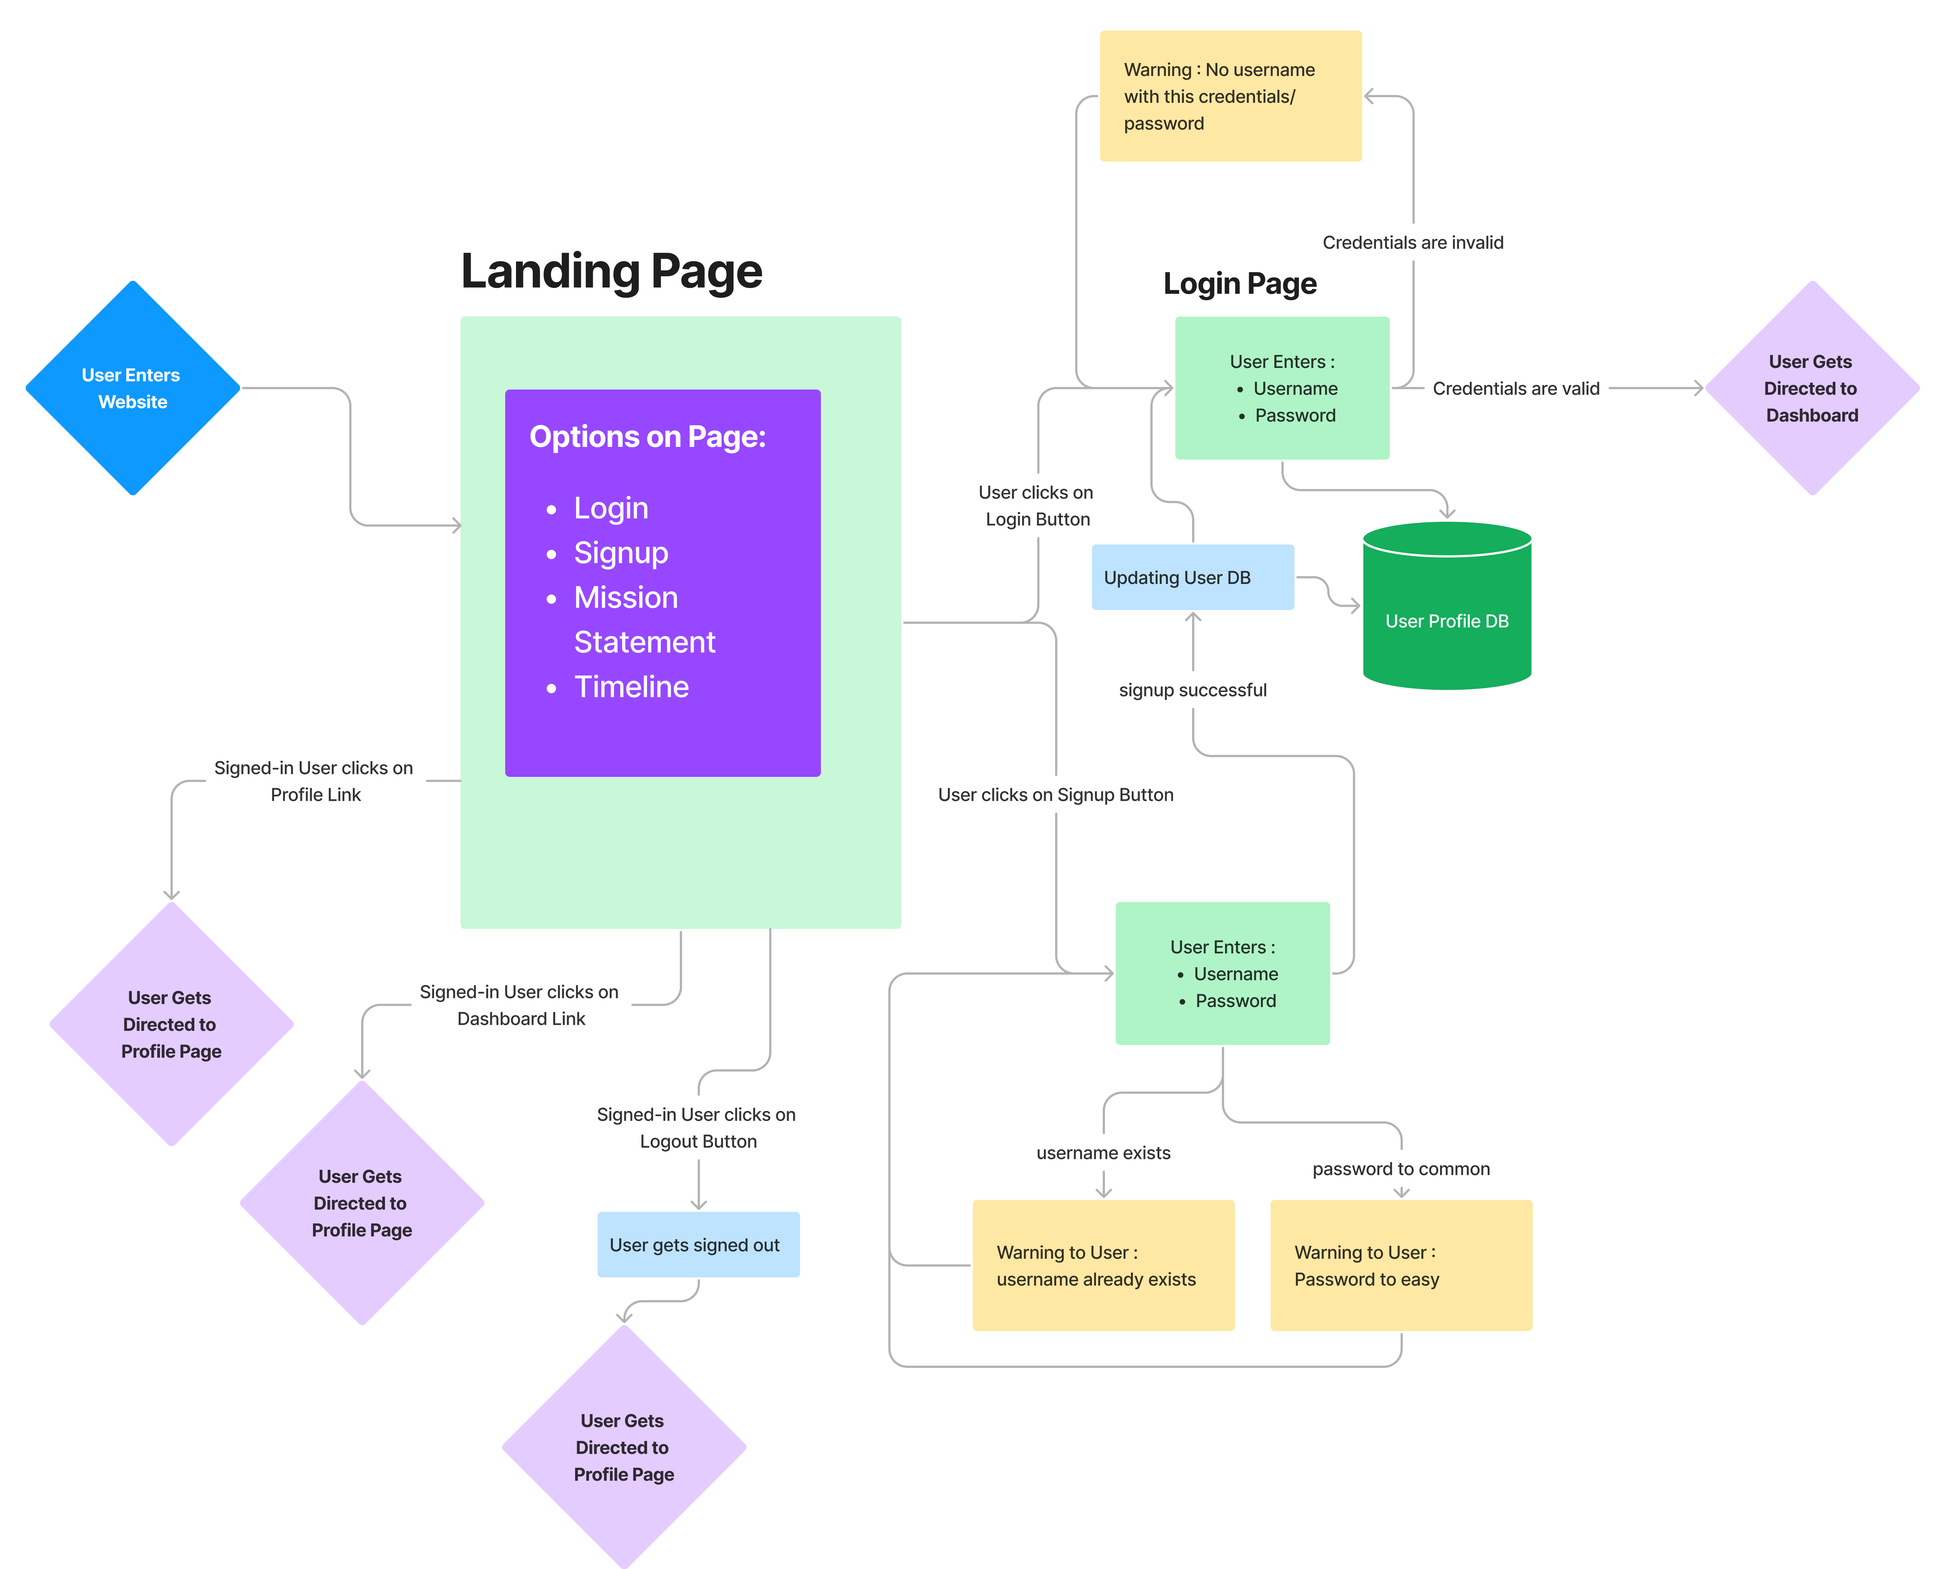
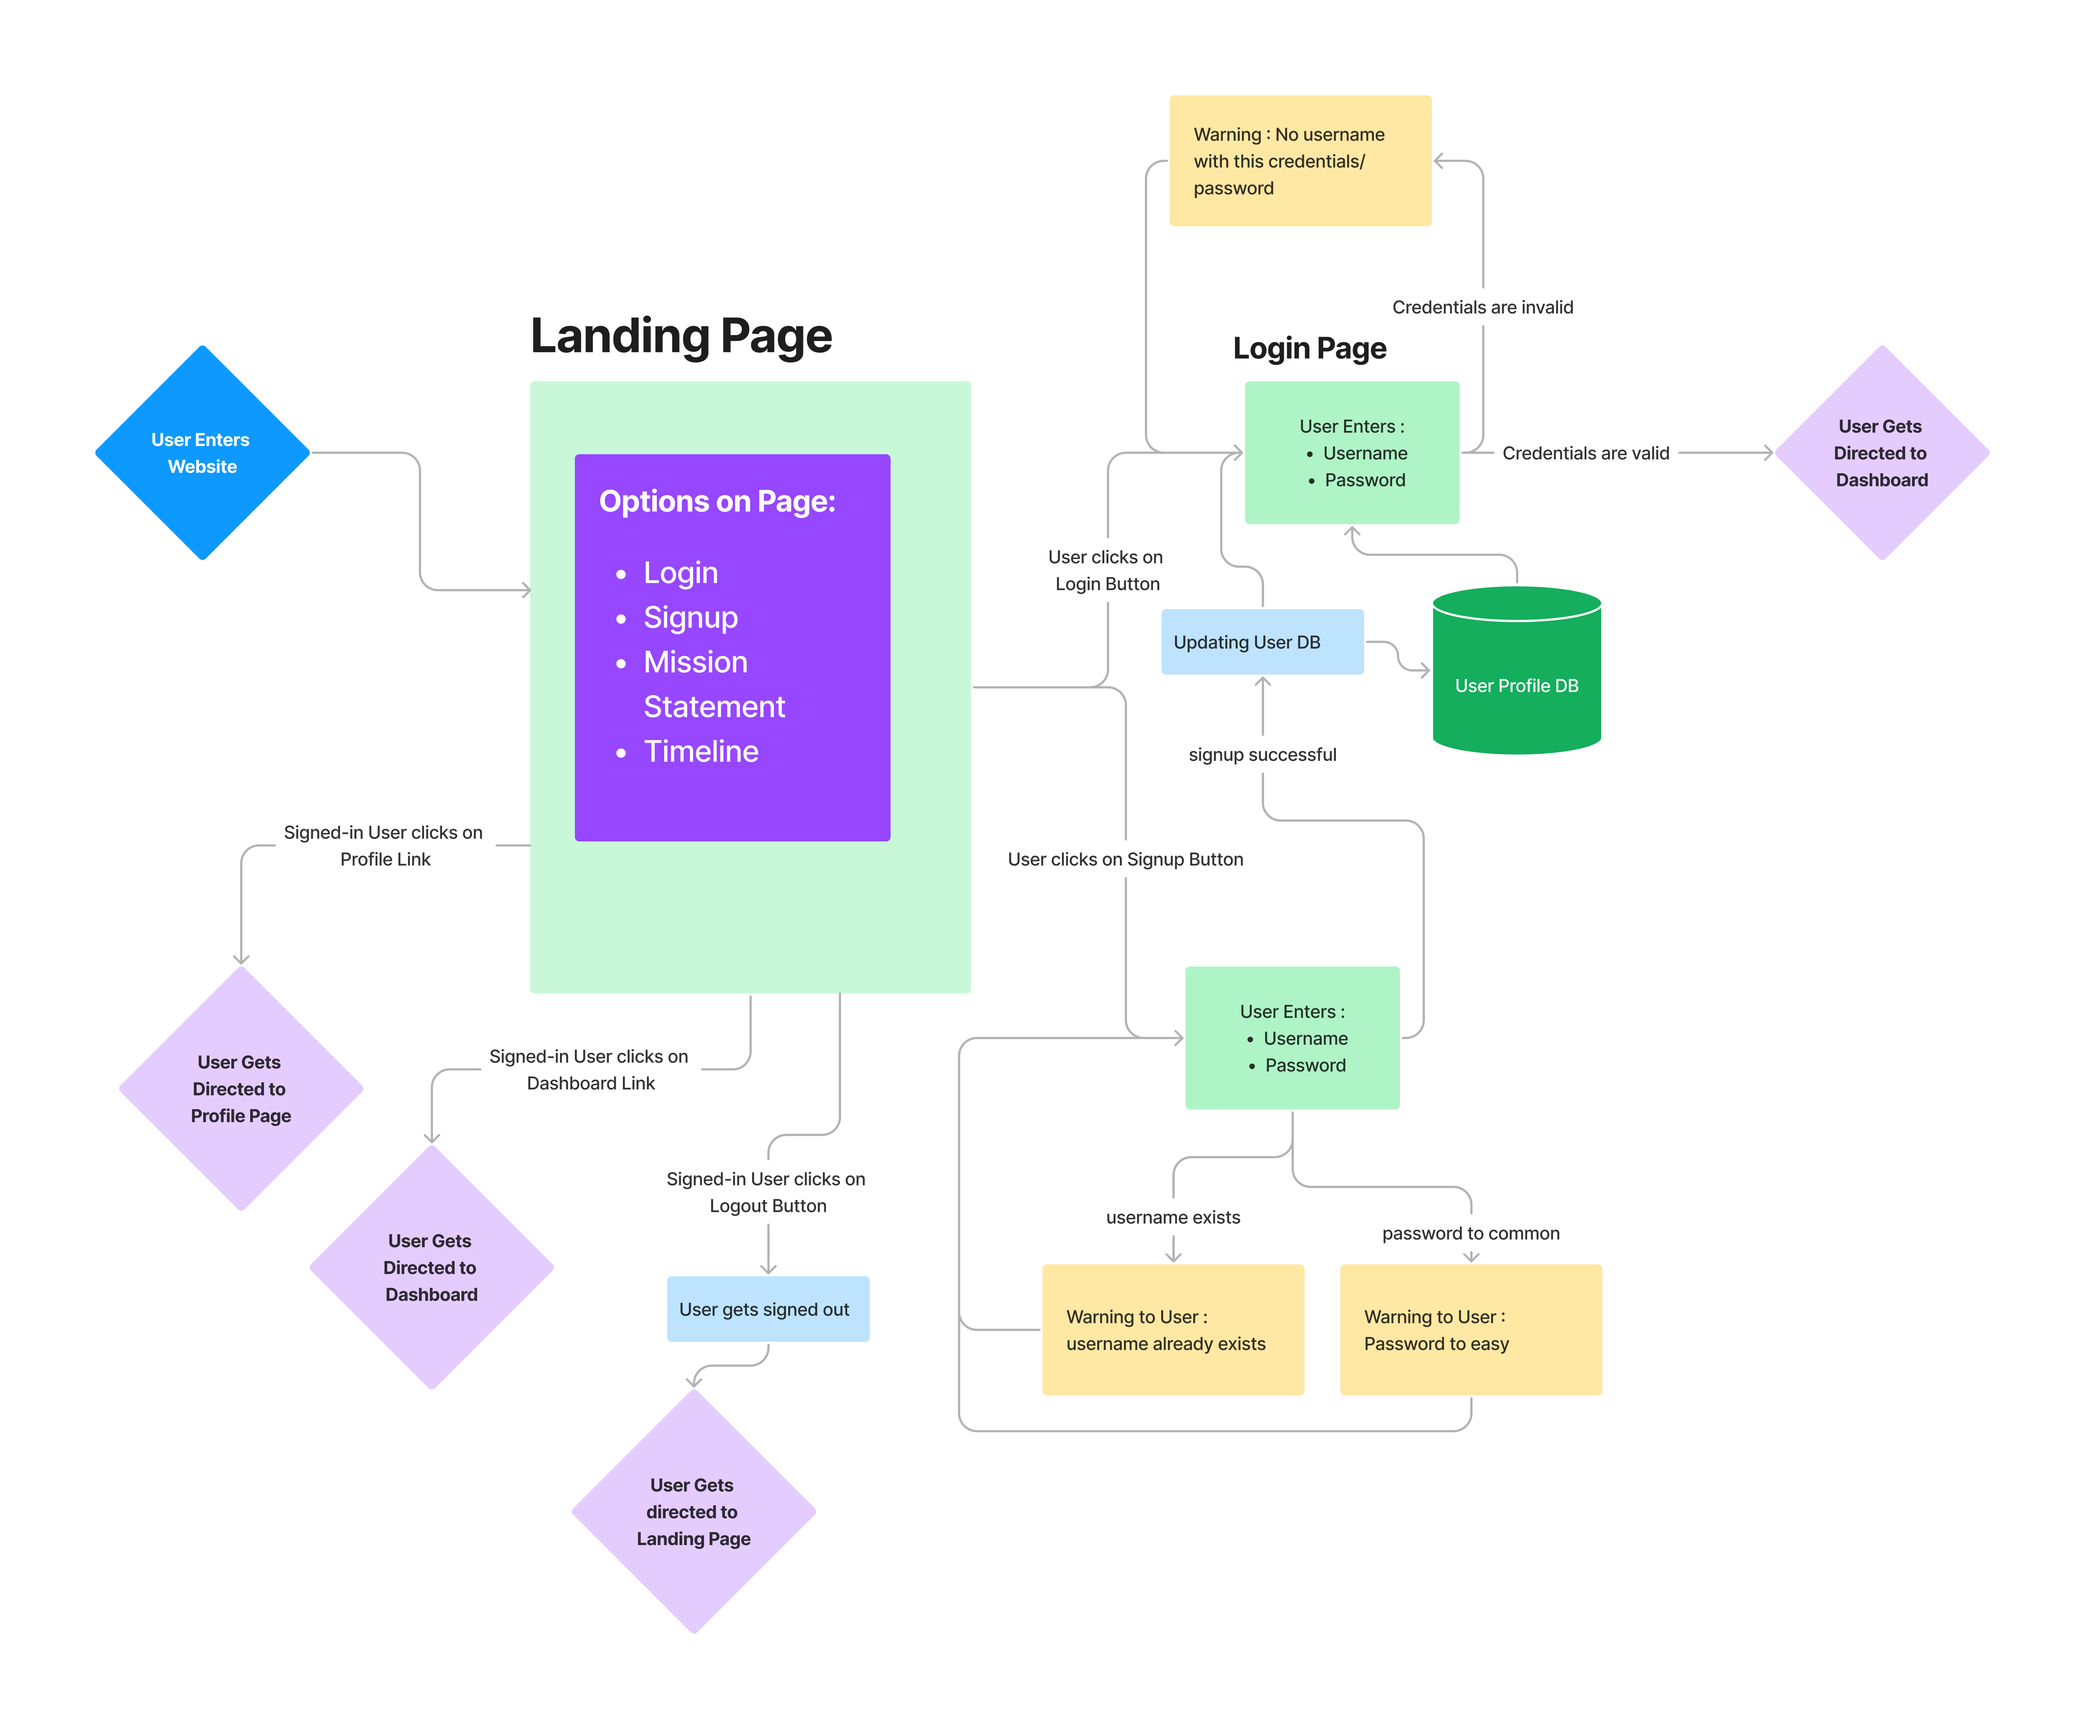
fix wrong labels on Landing Page Flow Diagram

diff --git a/README.md b/README.md
@@ -50,10 +50,10 @@ Link to live website : [Keep Walking](https://keep-walking-49be464b8318.herokuap
     - [General Features](#general-features)
       - [1. Feature: Navbar](#1-feature-navbar)
       - [2. Feature: Landing Page](#2-feature-landing-page)
-      - [2. Login/Signup Page](#2-loginsignup-page)
-      - [3. Dashboard](#3-dashboard)
-      - [4. Profile Page](#4-profile-page)
-      - [5. Other Pages](#5-other-pages)
+      - [3. Login/Signup Page](#3-loginsignup-page)
+      - [4. Dashboard](#4-dashboard)
+      - [5. Profile Page](#5-profile-page)
+      - [6. Other Pages](#6-other-pages)
     - [Future Implementations](#future-implementations)
     - [Accessibility](#accessibility)
   - [Models](#models)
@@ -197,7 +197,7 @@ This site is the main entry point and is accessible for all users.
     </table>
 </div>
 
-#### 2. Login/Signup Page
+#### 3. Login/Signup Page
 
 - New users can sign up on the website using the Signup Form.
 - If the username already exists, the user is prompted to choose a different, unique username
@@ -227,7 +227,7 @@ This site is the main entry point and is accessible for all users.
   </table>
 </div>
 
-#### 3. Dashboard
+#### 4. Dashboard
 
 1. Banner
 2. Latest Walks
@@ -245,7 +245,7 @@ This site is the main entry point and is accessible for all users.
   </table>
 </div>
 
-#### 4. Profile Page
+#### 5. Profile Page
 
 1. Profile Details Table
 2. Edit/Delete Functionality
@@ -259,7 +259,7 @@ This site is the main entry point and is accessible for all users.
 
   </div>
 
-#### 5. Other Pages
+#### 6. Other Pages
 
 1. 404 Page
 2. 403 Page
